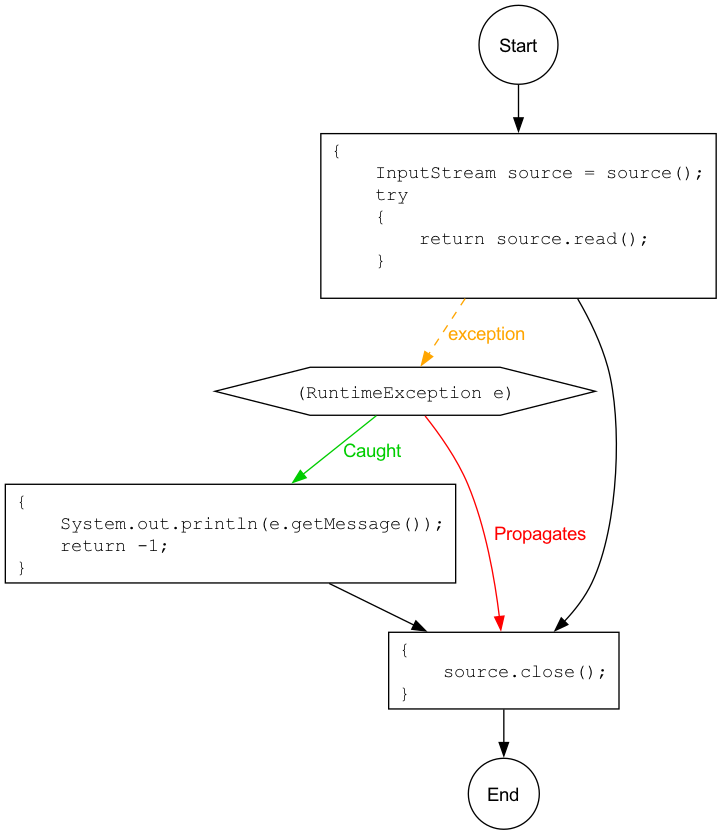
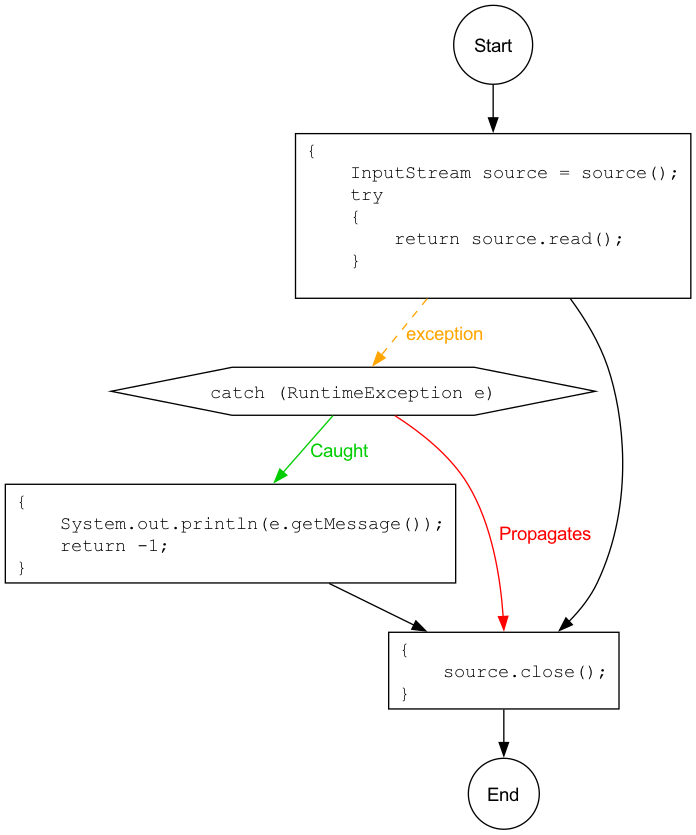
Use JavaPrinter to render catch label in CFG visualizer
Renders ExceptionHandlerNode labels as 'catch (Type e)' using the AST
printer rather than string concatenation, correctly handling multi-catch
and stripping any inline comments between 'catch' and the parameter.

diff --git a/src/main/java/org/openrewrite/analysis/controlflow/ControlFlowNode.java b/src/main/java/org/openrewrite/analysis/controlflow/ControlFlowNode.java
@@ -23,8 +23,10 @@ import org.jspecify.annotations.Nullable;
 import org.openrewrite.Cursor;
 import org.openrewrite.Incubating;
 import org.openrewrite.internal.StringUtils;
+import org.openrewrite.java.JavaPrinter;
 import org.openrewrite.java.tree.J;
 import org.openrewrite.java.tree.JavaType;
+import org.openrewrite.java.tree.Space;
 import org.openrewrite.java.tree.TypeUtils;
 
 import java.util.*;
@@ -322,7 +324,10 @@ public abstract class ControlFlowNode {
 
         @Override
         String toVisualizerString() {
-            return catchClause.getParameter().toString();
+            String parameter = catchClause.getParameter()
+                    .withPrefix(Space.EMPTY)
+                    .printTrimmed(new JavaPrinter<>());
+            return "catch " + parameter;
         }
 
         @Override